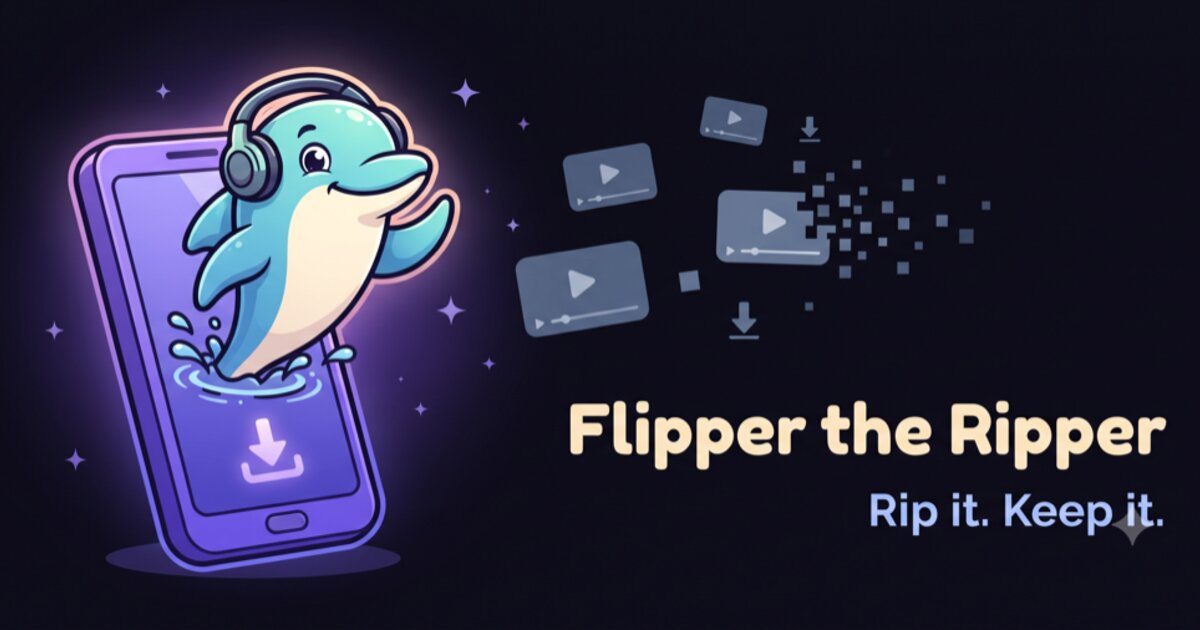
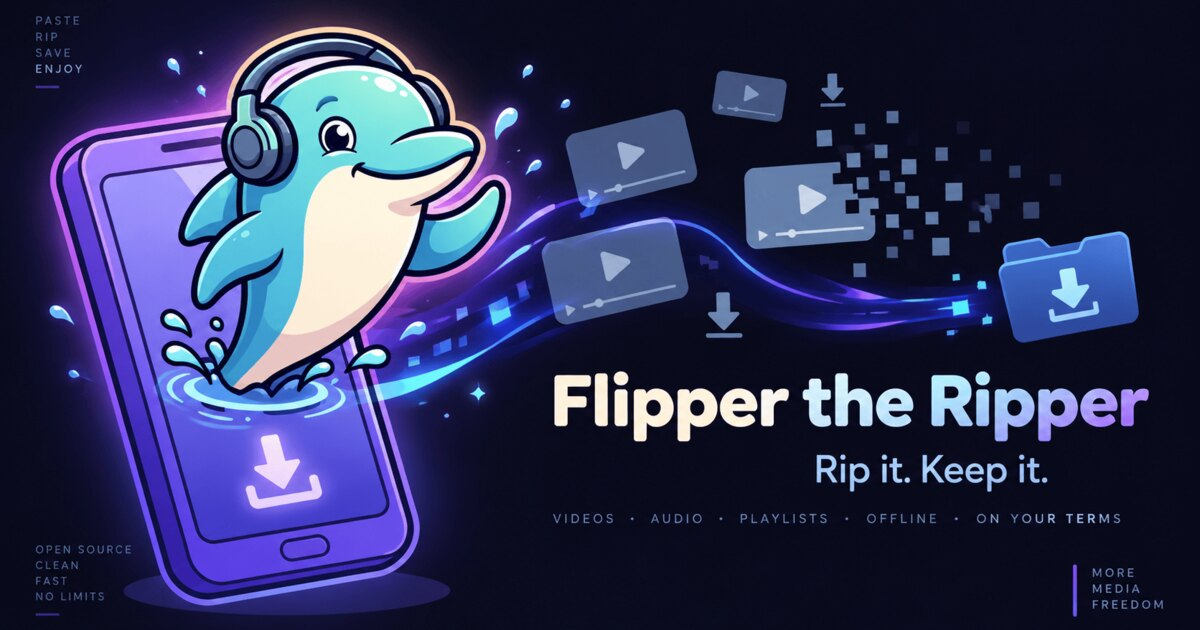
feat(website): high-resolution hero image (1672 px)
Claude-Session: https://claude.ai/code/session_01UcobzkTqVgULEXse87NsMY

diff --git a/website/index.html b/website/index.html
@@ -8,9 +8,9 @@
   <meta name="theme-color" content="#141218">
   <meta name="color-scheme" content="dark">
   <link rel="canonical" href="https://flipper-the-ripper.celox.io/">
-  <link rel="icon" href="assets/mark.svg?v=3" type="image/svg+xml">
-  <link rel="apple-touch-icon" href="assets/apple-touch-icon.png?v=3">
-  <link rel="preload" as="image" href="assets/hero.webp?v=3" type="image/webp">
+  <link rel="icon" href="assets/mark.svg?v=4" type="image/svg+xml">
+  <link rel="apple-touch-icon" href="assets/apple-touch-icon.png?v=4">
+  <link rel="preload" as="image" href="assets/hero.webp?v=4" type="image/webp">
 
   <meta property="og:type" content="website">
   <meta property="og:url" content="https://flipper-the-ripper.celox.io/">
@@ -31,16 +31,16 @@
    "author":{"@type":"Person","name":"Martin Pfeffer","url":"https://celox.io"}}
   </script>
 
-  <link rel="stylesheet" href="styles.css?v=3">
-  <script src="i18n.js?v=3" defer></script>
-  <script src="app.js?v=3" defer></script>
+  <link rel="stylesheet" href="styles.css?v=4">
+  <script src="i18n.js?v=4" defer></script>
+  <script src="app.js?v=4" defer></script>
 </head>
 <body>
   <a class="skip" href="#main" data-i18n="skip">Skip to content</a>
 
   <header class="bar">
     <a class="brand" href="#top" aria-label="Flipper the Ripper">
-      <img src="assets/mark.svg?v=3" alt="" width="28" height="28">
+      <img src="assets/mark.svg?v=4" alt="" width="28" height="28">
       <span>Flipper the Ripper</span>
     </a>
     <nav class="bar-links" aria-label="Main">
@@ -64,8 +64,8 @@
   <main id="main">
     <section class="hero" id="top">
       <picture class="hero-bg" aria-hidden="true">
-        <source srcset="assets/hero.webp?v=3" type="image/webp">
-        <img src="assets/hero.jpg?v=3" alt="" width="1024" height="506" fetchpriority="high">
+        <source srcset="assets/hero.webp?v=4" type="image/webp">
+        <img src="assets/hero.jpg?v=4" alt="" width="1672" height="941" fetchpriority="high">
       </picture>
       <div class="hero-scrim" aria-hidden="true"></div>
 
@@ -130,8 +130,8 @@
     <section class="section shots" aria-labelledby="s-h">
       <h2 id="s-h" data-i18n="s.h">Material 3 Expressive, dark and light</h2>
       <picture>
-        <source srcset="assets/screens.webp?v=3" type="image/webp">
-        <img src="assets/screens.jpg?v=3" width="1600" height="894" loading="lazy" decoding="async"
+        <source srcset="assets/screens.webp?v=4" type="image/webp">
+        <img src="assets/screens.jpg?v=4" width="1600" height="894" loading="lazy" decoding="async"
              data-i18n-alt="s.alt" alt="Four screens: the quality sheet on Home, the download queue, the progress notification and the German settings">
       </picture>
     </section>

diff --git a/website/styles.css b/website/styles.css
@@ -104,8 +104,12 @@ code {
 .hero-bg, .hero-bg img {
   position: absolute; inset: 0; width: 100%; height: 100%; z-index: -2;
 }
+/* Desktop: the picture starts below the bar, so its corner lettering does not sit under the brand. */
+@media (min-width: 861px) {
+  .hero-bg, .hero-scrim { top: calc(env(safe-area-inset-top) + 64px); height: auto; bottom: 0; }
+}
 .hero-bg img {
-  object-fit: cover; object-position: 20% 50%;
+  object-fit: cover; object-position: 12% 50%;
   animation: hero-in 1.6s var(--ease-emph) both;
 }
 /* The banner carries its own wordmark on the right; the scrim sinks it into the page colour
@@ -113,8 +117,8 @@ code {
 .hero-scrim {
   position: absolute; inset: 0; z-index: -1;
   background:
-    linear-gradient(90deg, transparent 22%, color-mix(in srgb, var(--bg) 88%, transparent) 48%, var(--bg) 72%),
-    linear-gradient(180deg, color-mix(in srgb, var(--bg) 55%, transparent) 0, transparent 22%, transparent 70%, var(--bg) 100%);
+    linear-gradient(90deg, transparent 24%, color-mix(in srgb, var(--bg) 96%, transparent) 45%, var(--bg) 58%),
+    linear-gradient(180deg, color-mix(in srgb, var(--bg) 92%, transparent) 0, color-mix(in srgb, var(--bg) 40%, transparent) 12%, transparent 22%, transparent 72%, var(--bg) 100%);
 }
 .hero-content { width: min(100%, 520px); margin-right: max(0px, calc((100vw - var(--measure)) / 2 - var(--gutter))); }
 .kicker {
@@ -156,11 +160,11 @@ h1 {
   /* Narrow screens show the whole banner — cropping it cut its wordmark mid-word. */
   .hero {
     display: block; min-height: 0;
-    padding-top: calc(env(safe-area-inset-top) + 60px + 49.4vw + 8px);
+    padding-top: calc(env(safe-area-inset-top) + 60px + 56.3vw + 8px);
     padding-bottom: 56px;
   }
   .hero-bg, .hero-scrim {
-    top: calc(env(safe-area-inset-top) + 60px); height: 49.4vw; bottom: auto;
+    top: calc(env(safe-area-inset-top) + 60px); height: 56.3vw; bottom: auto;
   }
   .hero-bg img { object-fit: cover; object-position: 50% 50%; }
   .hero-scrim {
